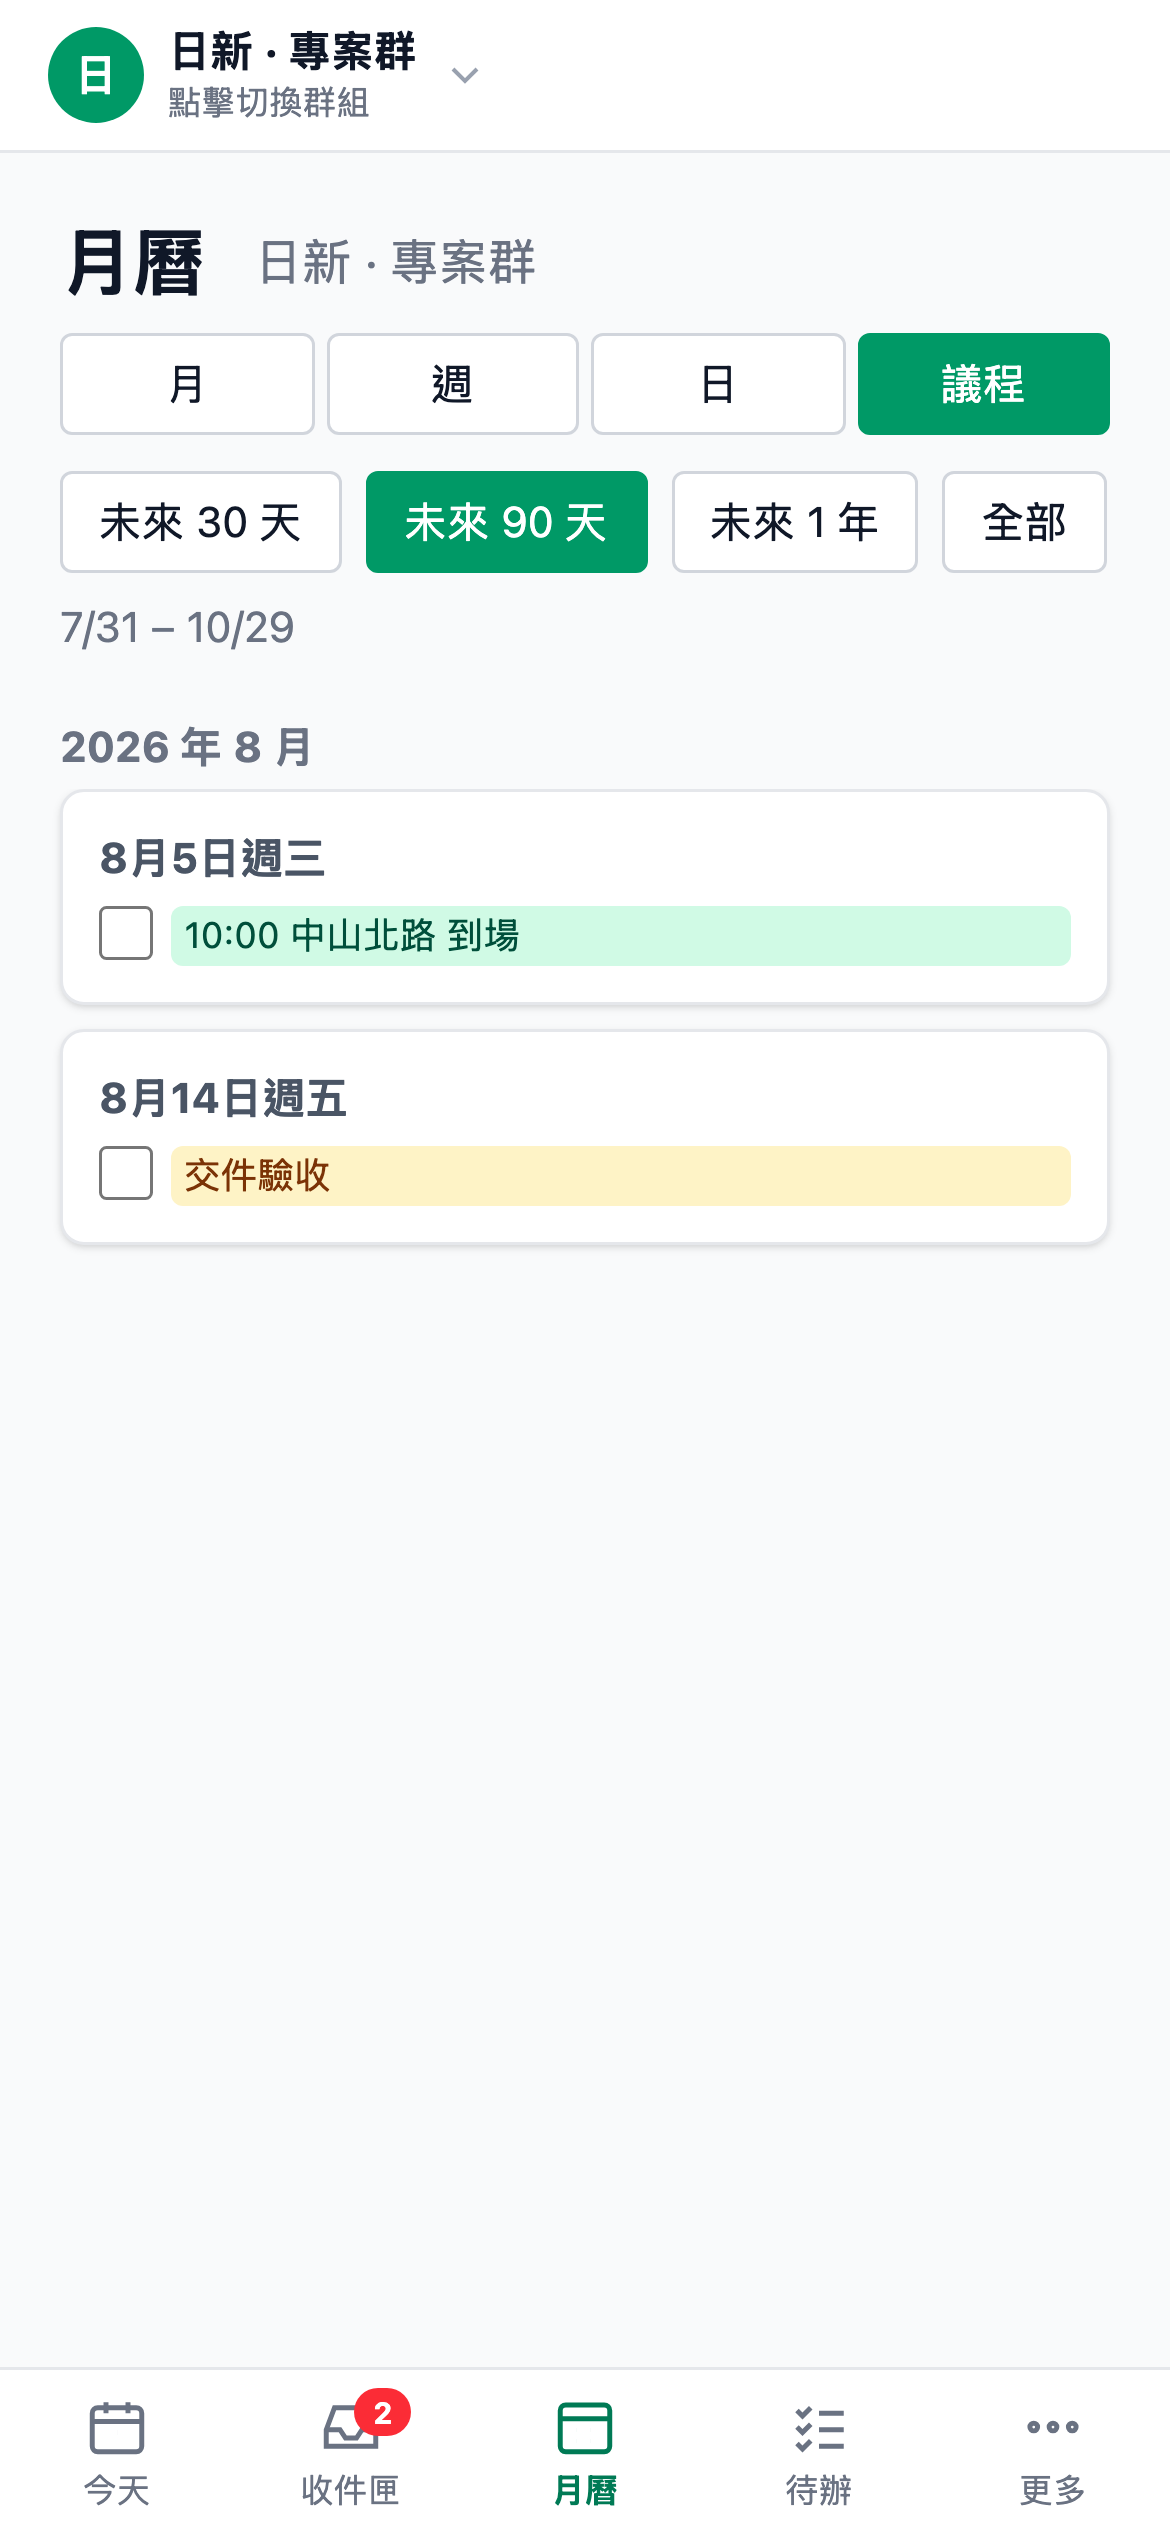
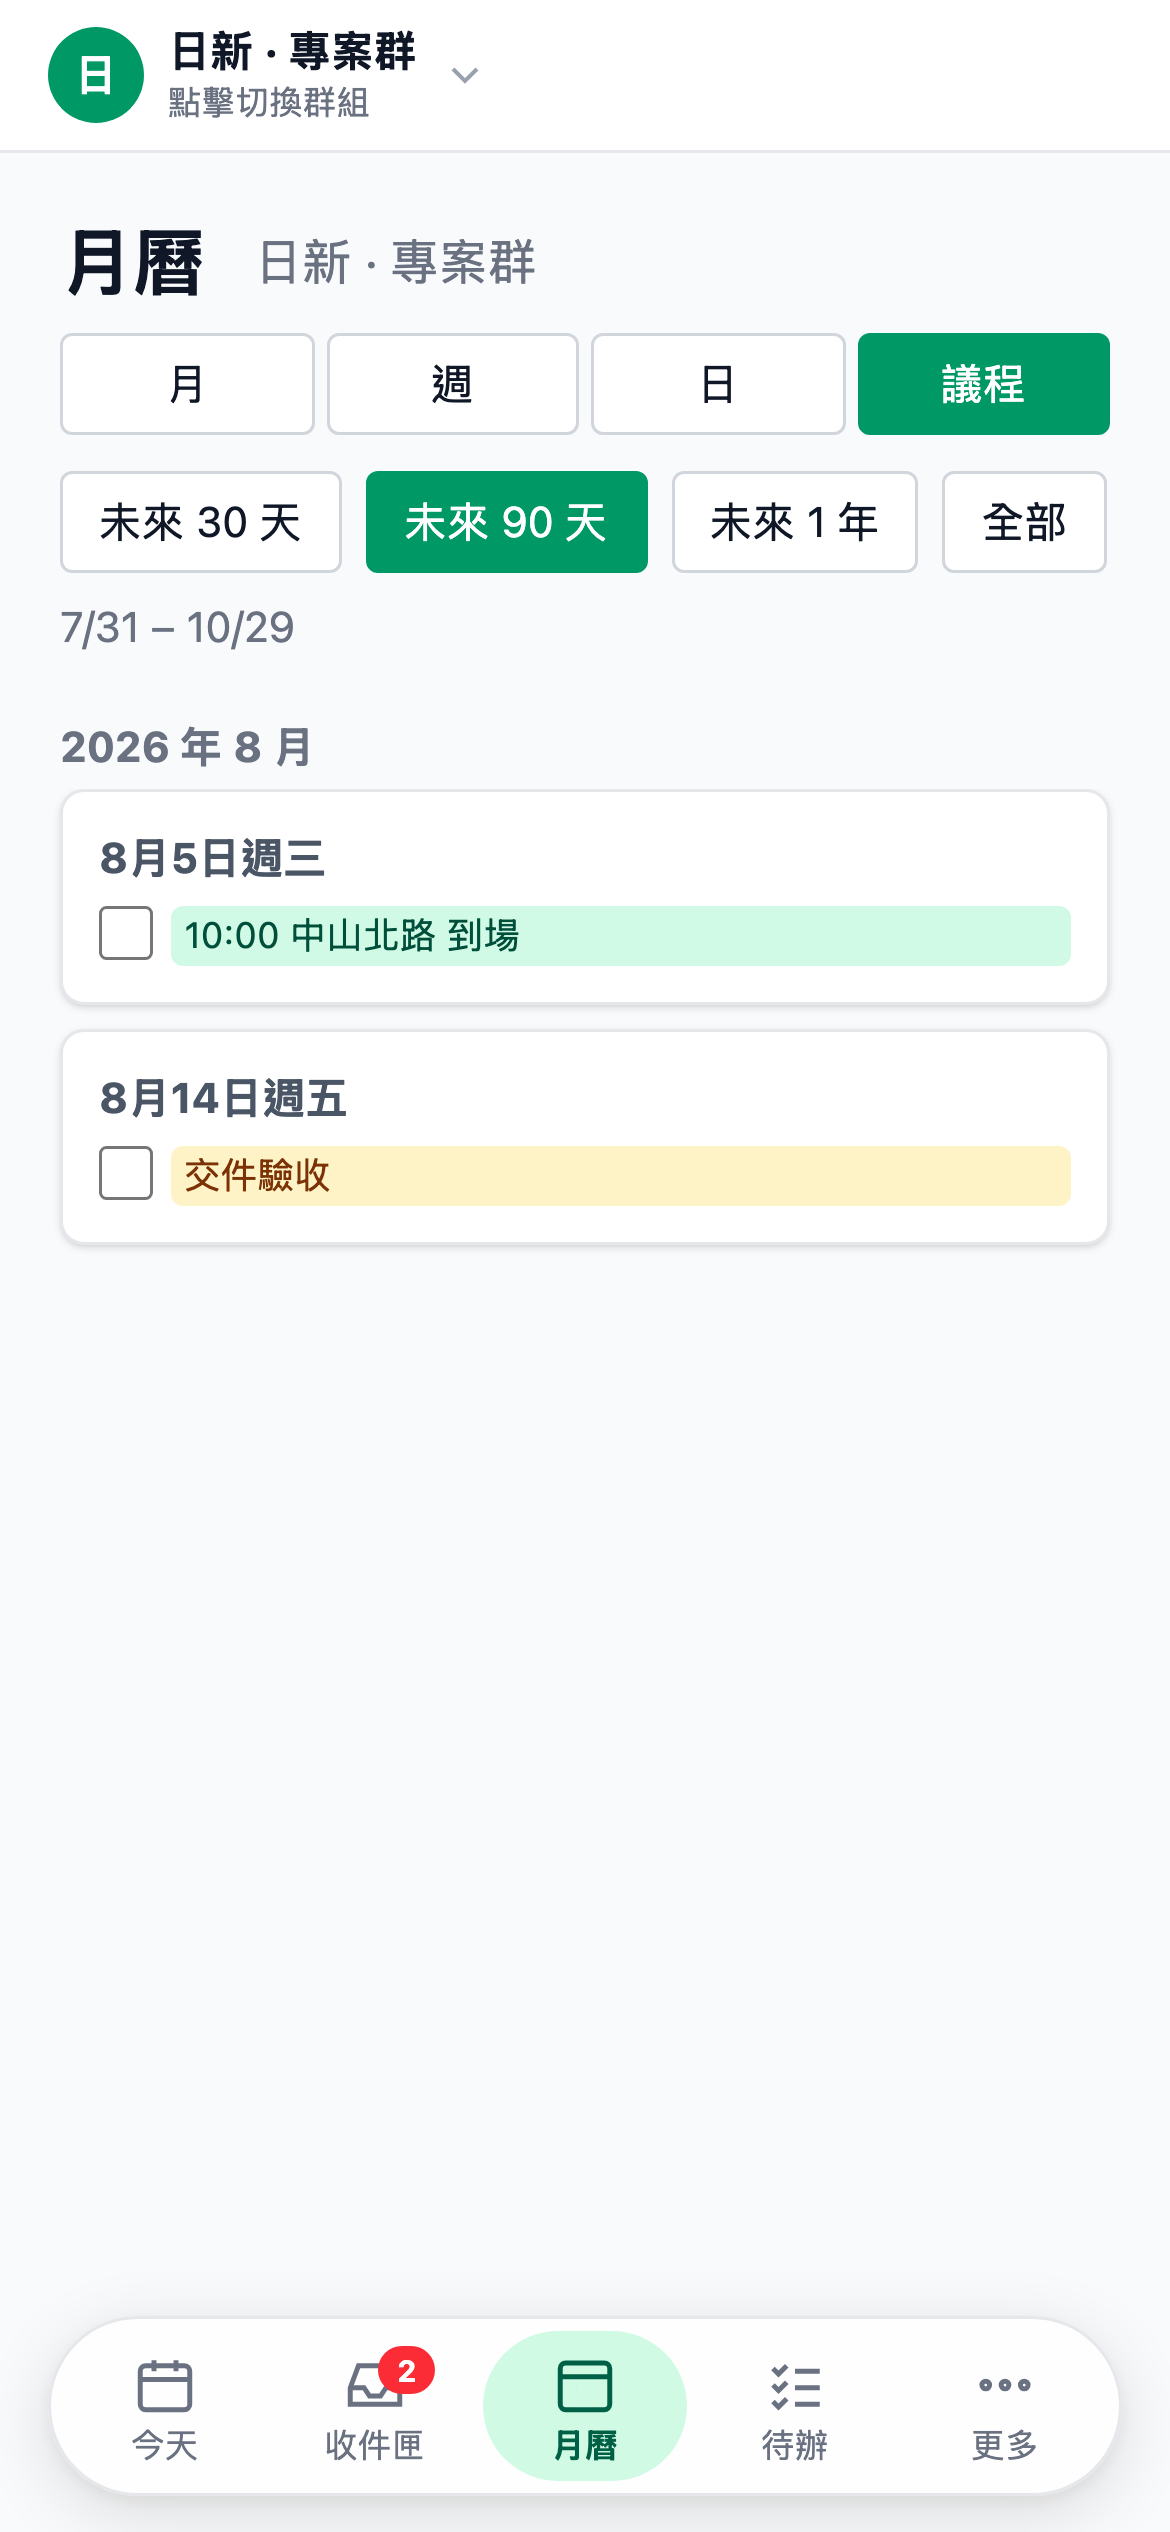
樣式：底部導覽改為懸浮膠囊，讓開 iPhone 主畫面指示器
原本是齊底滿版列。safe-area inset 有留（內容不會被蓋），但背景仍鋪到螢幕最底，
主畫面指示器就畫在那條白底上，視覺上黏成一團。膠囊整條浮在 inset 之上，
指示器底下是頁面背景，不再打架；順帶把 Tab 往拇指區收一點（費茨定律）。

管理版與成員版共用 .floating-nav，選中態從「只有文字變色」改為實心藥丸——
膠囊每格比滿版窄，只靠字色讀不出來。

刻意只搬視覺形態，沒搬來源專案那套拖曳切換／捲動隱藏／可自訂分頁：
成員版是零 client JS 的 MPA，那些要整包 client 元件才做得到，
而這次要解的問題只是「不要跟指示器疊在一起」。

.floating-nav 放 @layer components 而非未分層：管理版靠 md:hidden 只在手機顯示，
未分層的 display:flex 會贏過那個 utility，桌機就會冒出一條膠囊。
（已驗證編譯後 @layer 宣告順序為 theme, base, components, utilities。）

批次操作列的手機偏移一併從 3.5rem 調到 4.75rem，避開膠囊。

Changed region(s): [[0.0615, 0.9048, 0.9538, 0.9984]]

diff --git a/src/app/globals.css b/src/app/globals.css
@@ -37,6 +37,53 @@ html {
   .input {
     @apply rounded border border-gray-300 bg-white px-3 py-1.5 text-sm;
   }
+
+  /* ── 底部導覽：懸浮膠囊 ──
+     原本是齊底滿版列，safe-area 有留、但背景仍鋪到螢幕最底——iPhone 的主畫面指示器
+     就畫在那條背景上，視覺上壓在一起。膠囊整條浮在 inset 之上，指示器底下是頁面背景，
+     不再打架；順帶把 Tab 往拇指區收（費茨定律）。
+     放在 @layer components 而非未分層：admin 版靠 md:hidden 只在手機顯示，
+     未分層的 display:flex 會蓋掉那個 utility，桌機就會冒出一條膠囊。 */
+  .floating-nav {
+    position: fixed;
+    left: 50%;
+    bottom: calc(0.75rem + env(safe-area-inset-bottom));
+    z-index: 20;
+    display: flex;
+    gap: 2px;
+    width: calc(100% - 2rem);
+    max-width: 26rem;
+    transform: translateX(-50%);
+    padding: 4px;
+    border: 1px solid rgb(229 231 235);
+    border-radius: 999px;
+    background: rgb(255 255 255 / 0.85);
+    -webkit-backdrop-filter: blur(16px) saturate(1.6);
+    backdrop-filter: blur(16px) saturate(1.6);
+    box-shadow: 0 6px 24px rgb(0 0 0 / 0.12), 0 2px 6px rgb(0 0 0 / 0.06);
+  }
+  .floating-nav a {
+    display: flex;
+    flex: 1;
+    flex-direction: column;
+    align-items: center;
+    gap: 2px;
+    padding: 7px 0 6px;
+    border-radius: 999px;
+    font-size: 11px;
+    line-height: 1.2;
+  }
+  /* 選中態改用實心藥丸：膠囊裡只靠文字變色太弱（原本滿版列有整格寬度可讀） */
+  .floating-nav a[aria-current="page"] {
+    background: rgb(209 250 229);
+  }
+  .floating-nav a:active {
+    transform: scale(0.95);
+  }
+  /* 頁面讓開膠囊：膠囊高約 3.5rem，加上離底 0.75rem 與 inset */
+  .nav-gap {
+    padding-bottom: calc(4.5rem + env(safe-area-inset-bottom));
+  }
 }
 
 /* 手機觸控目標 ≥44px（Apple HIG 建議值；桌機維持緊湊） */
@@ -79,10 +126,10 @@ body:has(.batch-box:checked) #batch {
   border-radius: 0;
   padding-bottom: calc(0.5rem + env(safe-area-inset-bottom));
 }
-/* 手機讓開底部 Tab（nav 約 3.5rem＋safe-area，見 nav.tsx 的 BottomNav） */
+/* 手機讓開懸浮膠囊（膠囊高約 3.5rem＋離底 0.75rem＋safe-area，見 .floating-nav） */
 @media (max-width: 767px) {
   body:has(.batch-box:checked) #batch {
-    bottom: calc(3.5rem + env(safe-area-inset-bottom));
+    bottom: calc(4.75rem + env(safe-area-inset-bottom));
     padding-bottom: 0.5rem;
   }
 }
@@ -93,6 +140,12 @@ body:has(.batch-box:checked) #batch {
 
   .card { background: #1a211e; border-color: #2a332f; }
   .btn { background: #1a211e; border-color: #39443e; color: #e8edea; }
+  .floating-nav {
+    background: rgb(26 33 30 / 0.88);
+    border-color: #2a332f;
+    box-shadow: 0 6px 24px rgb(0 0 0 / 0.5), 0 2px 6px rgb(0 0 0 / 0.3);
+  }
+  .floating-nav a[aria-current="page"] { background: #1d3b30; }
   .btn:hover { background: #232b27; }
   .btn-danger { background: #1a211e; border-color: #542626; }
   .btn-danger:hover { background: #2b1d1d; }

diff --git a/src/app/g/[groupId]/page.tsx b/src/app/g/[groupId]/page.tsx
@@ -446,7 +446,7 @@ export default async function MemberView({
   const nextYm = `${mm === 12 ? yy + 1 : yy}-${String(mm === 12 ? 1 : mm + 1).padStart(2, '0')}`;
 
   return (
-    <main className="mx-auto max-w-md pb-20">
+    <main className="nav-gap mx-auto max-w-md">
       <header className="flex items-center gap-3 border-b border-gray-200 bg-white px-4 py-3">
         <a href="/g" aria-label="回你的群組" className="-ml-1 p-1 text-gray-400">
           <svg viewBox="0 0 24 24" className="h-5 w-5" fill="none" stroke="currentColor" strokeWidth="2">
@@ -697,15 +697,13 @@ export default async function MemberView({
       </div>
 
       {/* 成員底部 Tab（server 渲染，零 client JS） */}
-      <nav className="fixed inset-x-0 bottom-0 z-20 mx-auto flex max-w-md border-t border-gray-200 bg-white pb-[env(safe-area-inset-bottom)]">
+      <nav className="floating-nav">
         {TABS.map(([t, label]) => (
           <a
             key={t}
             href={`${base}?tab=${t}`}
             aria-current={t === tab ? 'page' : undefined}
-            className={`flex flex-1 flex-col items-center gap-0.5 pt-2 pb-1.5 text-[11px] ${
-              t === tab ? 'font-bold text-emerald-700' : 'text-gray-500'
-            }`}
+            className={t === tab ? 'font-bold text-emerald-800' : 'text-gray-500'}
           >
             <svg viewBox="0 0 24 24" className="h-5 w-5" fill="none" stroke="currentColor" strokeWidth="1.8">
               {TAB_ICON[t]}

diff --git a/src/app/(admin)/nav.tsx b/src/app/(admin)/nav.tsx
@@ -75,15 +75,13 @@ export function BottomNav({ pending }: { pending: number }) {
     { path: '/more', label: '更多', icon: 'more', active: MORE_PATHS.some((p) => pathname.startsWith(p)) },
   ];
   return (
-    <nav className="fixed inset-x-0 bottom-0 z-20 flex border-t border-gray-200 bg-white pb-[env(safe-area-inset-bottom)] md:hidden">
+    <nav className="floating-nav md:hidden">
       {tabs.map((t) => (
         <a
           key={t.path}
           href={href(t.path)}
           aria-current={t.active ? 'page' : undefined}
-          className={`relative flex flex-1 flex-col items-center gap-0.5 pt-2 pb-1.5 text-[11px] ${
-            t.active ? 'font-bold text-emerald-700' : 'text-gray-500'
-          }`}
+          className={t.active ? 'font-bold text-emerald-800' : 'text-gray-500'}
         >
           <span className="relative">
             <Icon name={t.icon} />

diff --git a/src/app/(admin)/layout.tsx b/src/app/(admin)/layout.tsx
@@ -36,8 +36,8 @@ export default async function AdminLayout({ children }: { children: ReactNode })
           </Suspense>
         </div>
       </header>
-      {/* 手機底部 Tab 佔位 pb-20；safe-area inset 由 BottomNav 自己處理 */}
-      <div className="pb-20 md:pb-0">{children}</div>
+      {/* 手機懸浮膠囊佔位；桌機沒有底部 Tab，不留白 */}
+      <div className="nav-gap md:!pb-0">{children}</div>
       <Suspense fallback={null}>
         <BottomNav pending={pending} />
       </Suspense>
